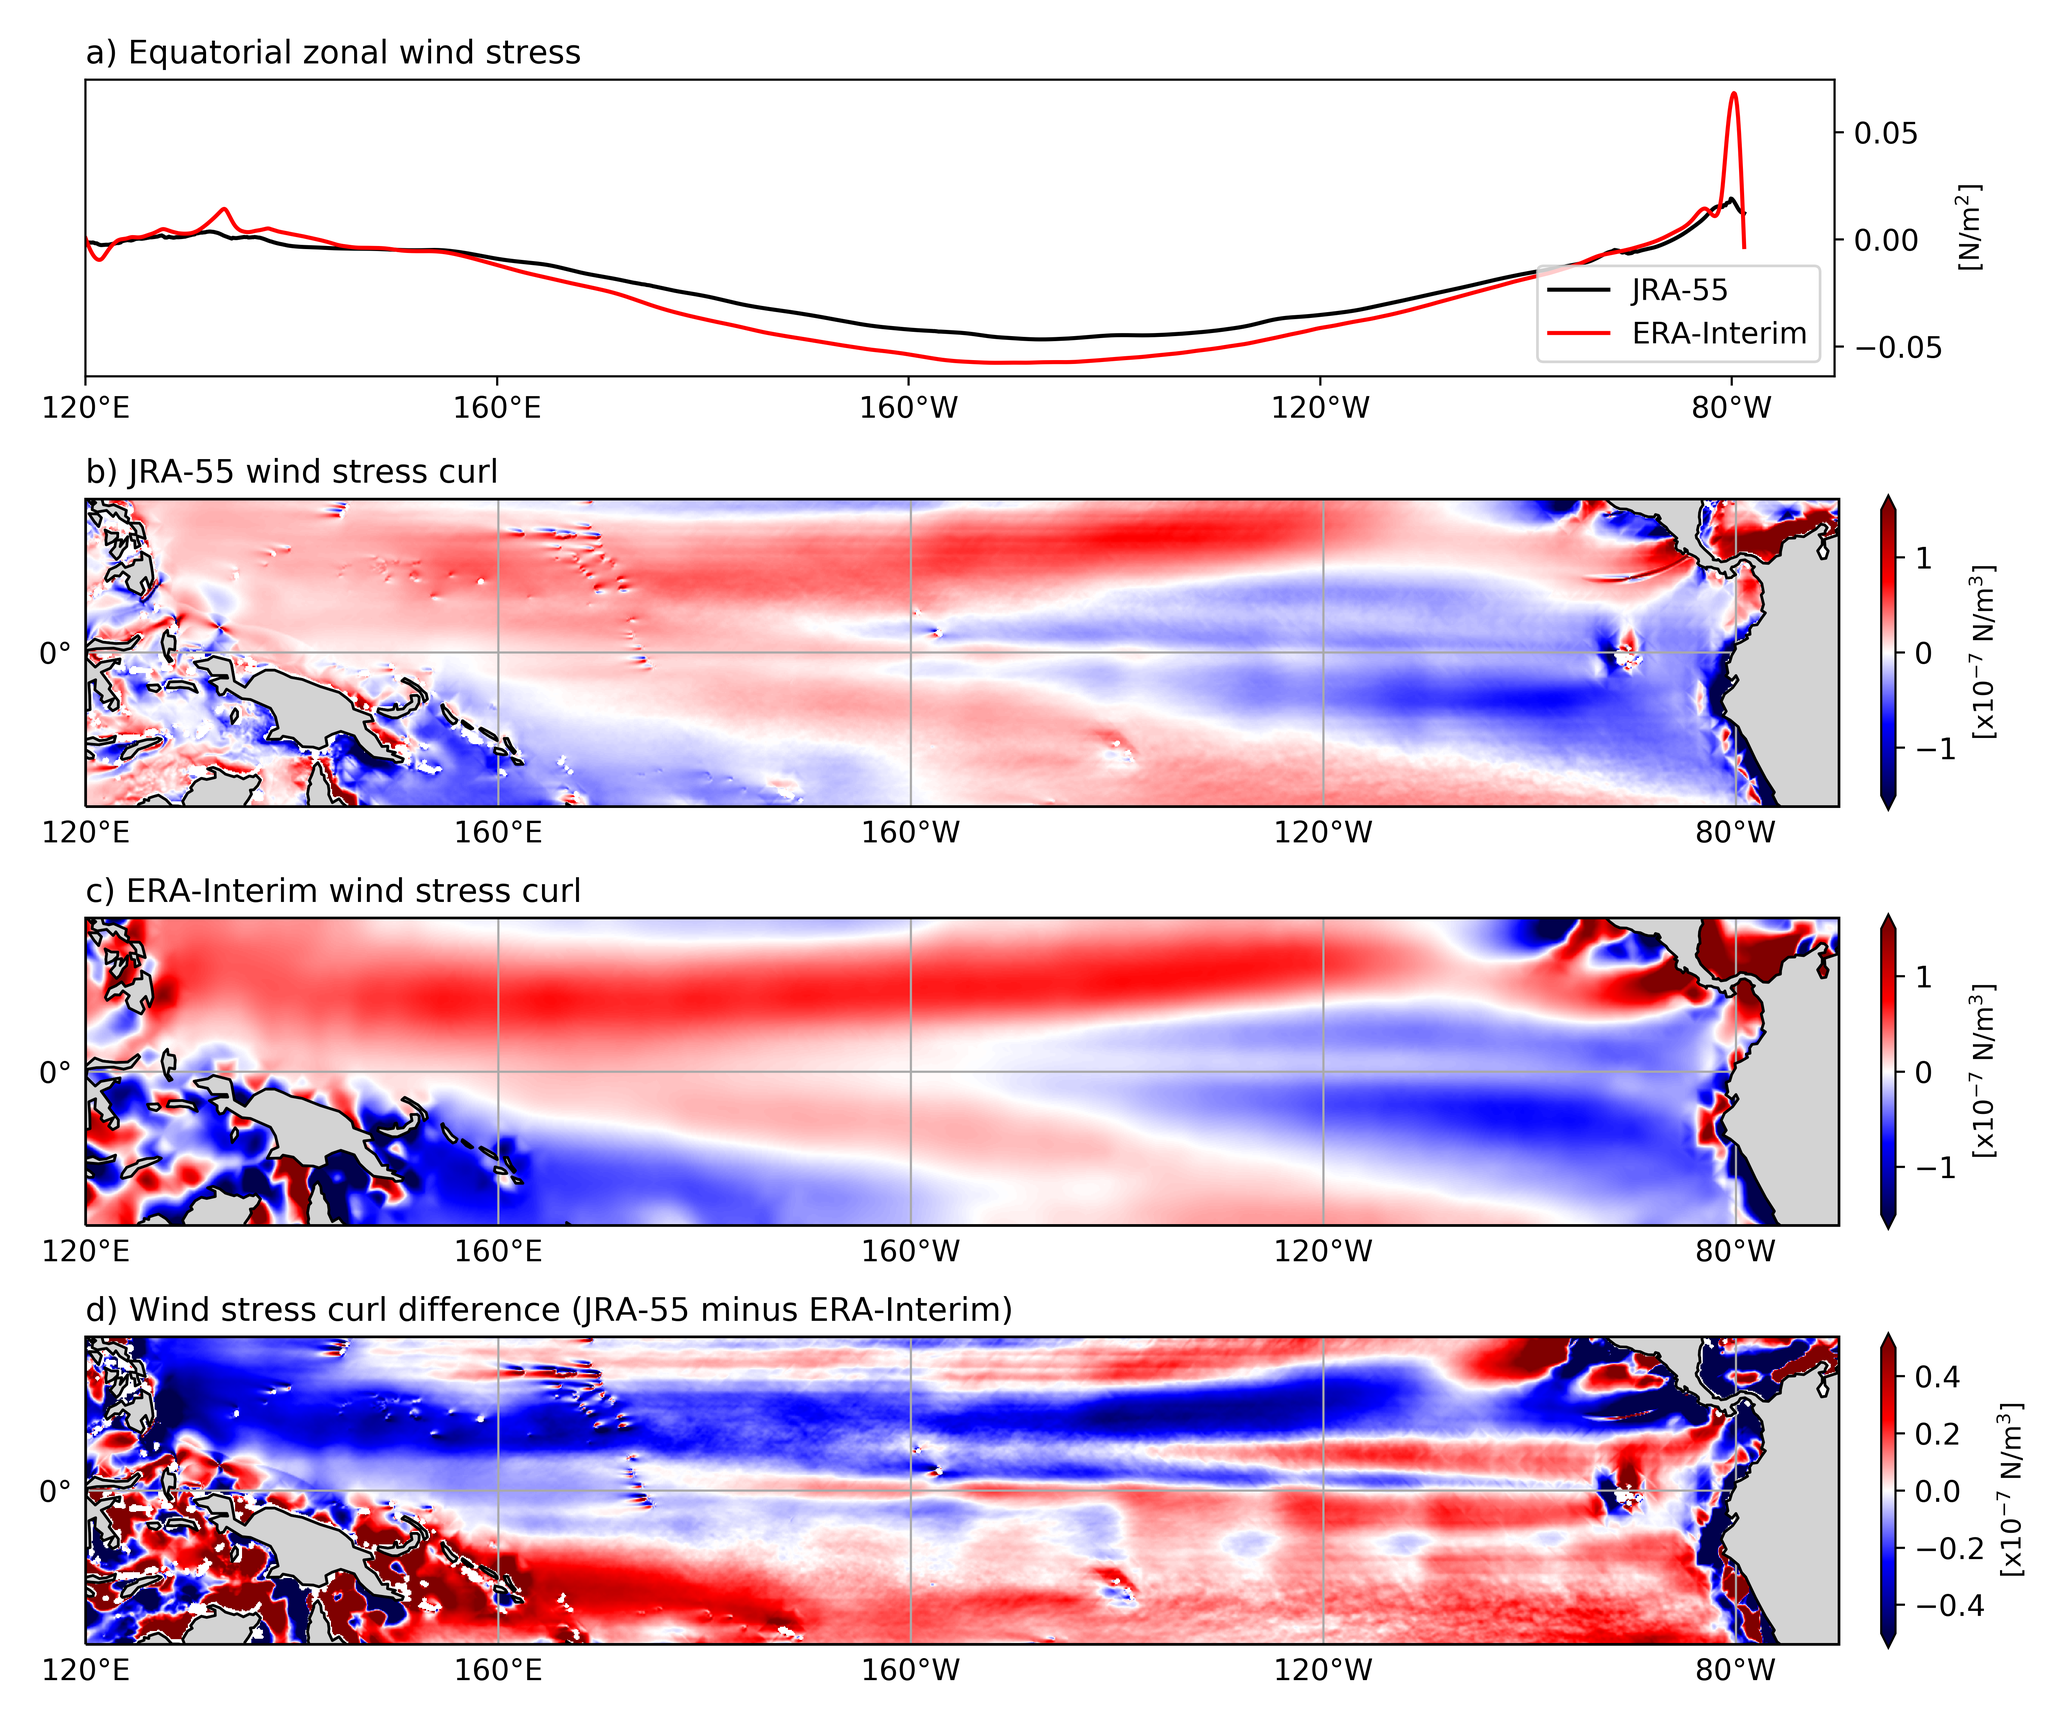
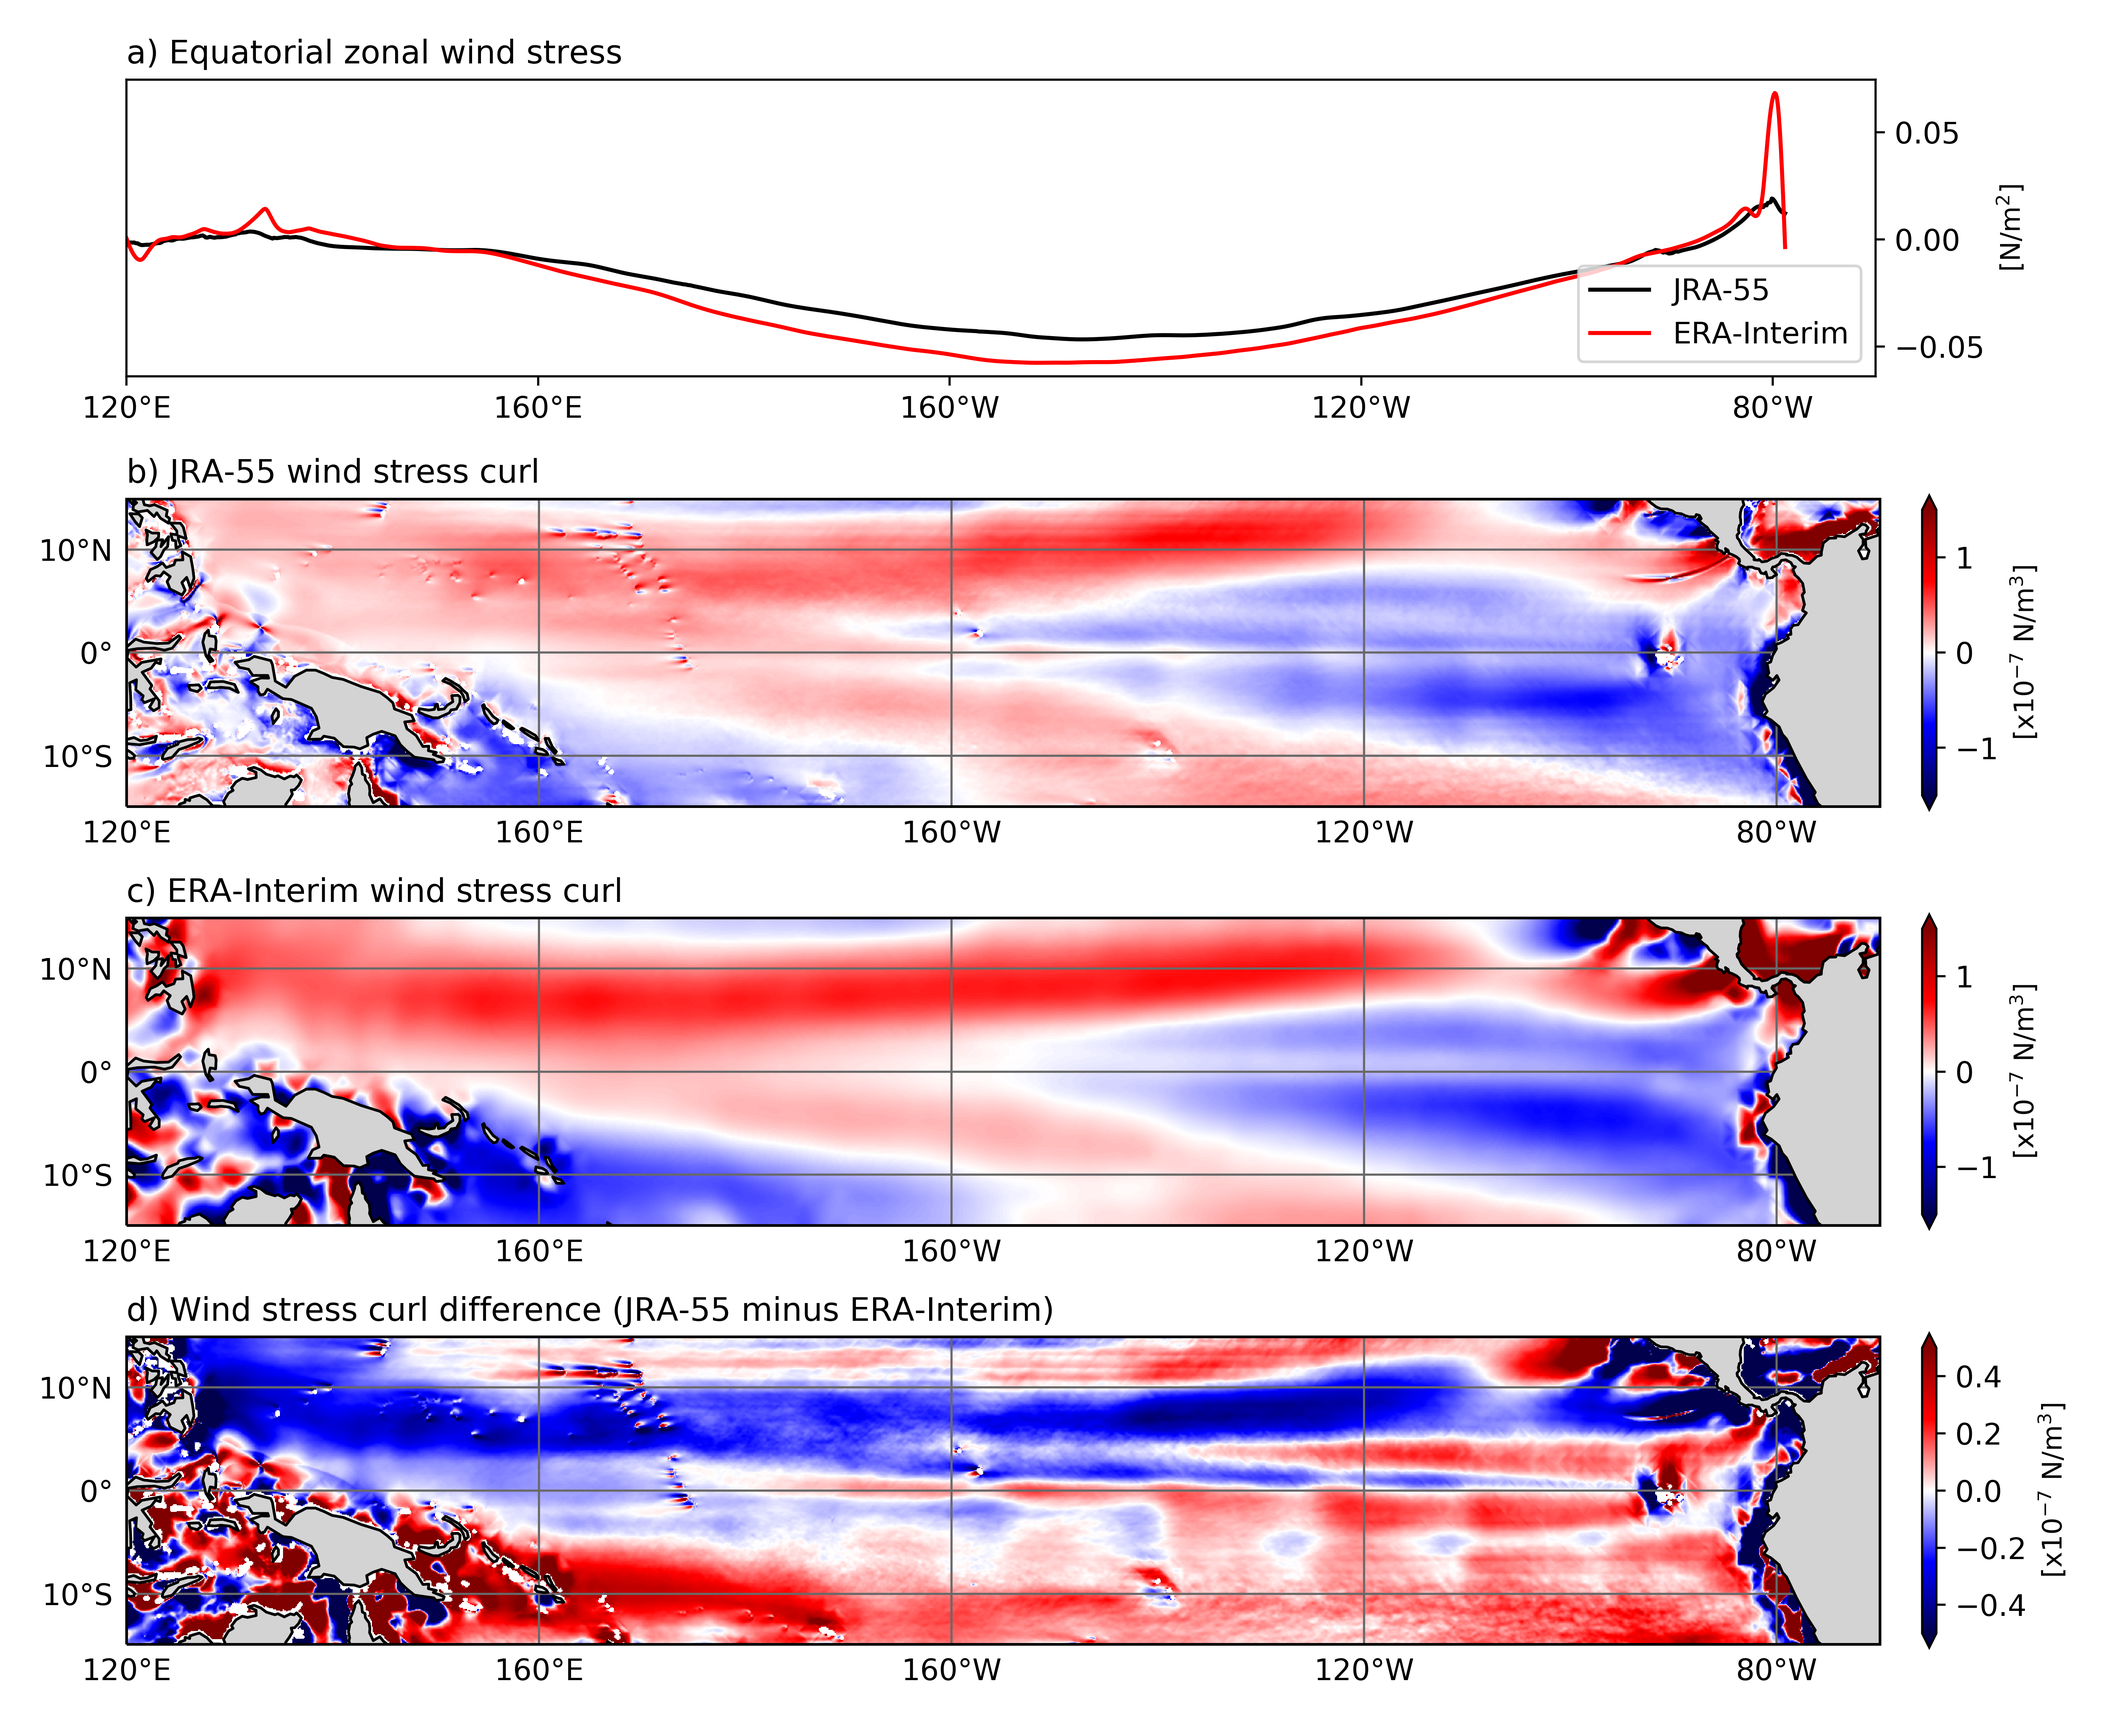
Updated and deleted WSC plots.

diff --git a/scripts/valid_plot_reanalysis_wind.py b/scripts/valid_plot_reanalysis_wind.py
@@ -22,7 +22,6 @@ fpath, dpath, xpath, lpath, tpath = paths()
 
 
 def get_wsc(data='jra55', flux='bulk', res=0.1, mean_t=True, interp=''):
-
     if flux == 'bulk':
         U_O, T_O, q_O, SLP, SST, SSU = flux_data(data, mean_t=mean_t, res=res,
                                                  interp=interp)
@@ -67,8 +66,8 @@ def plot_winds(varz, title, units, vmax, save_name, plot_map):
     proj = ccrs.PlateCarree(central_longitude=180)
     box_proj = ccrs.PlateCarree(central_longitude=0)
     rows = len(varz)
-
-    c = 1.1 if rows == 4 else 0.9
+    lcolor = 'dimgrey'  # Grid line colour.
+    c = 1.1 if rows == 4 else 0.8
     fig = plt.figure(figsize=(14.1, 10*c))
     for i, v in zip(range(rows), varz):
         if plot_map[i]:
@@ -81,10 +80,10 @@ def plot_winds(varz, title, units, vmax, save_name, plot_map):
             ax.add_feature(cartopy.feature.LAND, zorder=2, edgecolor='k',
                            facecolor='lightgrey')
             ax.gridlines(xlocs=[110, 120, 160, 200, 240, 280, 290],
-                         ylocs=[-20, -15, 0, 15, 20], color='darkgrey')
+                         ylocs=[-20, -10, 0, 10, 20], color=lcolor)
             gl = ax.gridlines(draw_labels=True, linewidth=0.001,
                               xlocs=[120, 160, -160, -120, -80],
-                              ylocs=[-15, 0, 15], color='darkgrey')
+                              ylocs=[-10, 0, 10], color=lcolor)
             gl.xlabels_bottom = True
             gl.xlabels_top = False
             gl.ylabels_right = False
@@ -95,10 +94,9 @@ def plot_winds(varz, title, units, vmax, save_name, plot_map):
         else:
             ax = fig.add_subplot(rows, 1, i + 1)
             box = ax.get_position()
-            # [left, bottom, width, height]
+            # [left, bottom, width, height].
             ax.set_position([box.x0, box.y0+0.015, box.width*0.828,
                              box.height*0.85])
-            # ax.set_extent([x0, x1, y0, y1], box_proj)
             ax.plot(v[0].lon, v[0], 'k',  label='JRA-55')
             ax.plot(v[1].lon, v[1].where(~np.isnan(v[0])), 'r',
                     label='ERA-Interim')
@@ -124,34 +122,29 @@ def plot_winds(varz, title, units, vmax, save_name, plot_map):
 
 data = ['jra55', 'erai']
 flux = ['bulk', 'erai', 'static', 'GILL', 'LARGE_approx']
-tx1, ty1, phi1 = get_wsc(data=data[0], flux=flux[0], res=0.1, interp='cubic')
-tx2, ty2, phi2 = get_wsc(data=data[1], flux=flux[1], res=0.1, interp='cubic')
+f1, f2, res = 0, 1, 0.1
+tx1, ty1, phi1 = get_wsc(data=data[0], flux=flux[f1], res=res, interp='cubic')
+tx2, ty2, phi2 = get_wsc(data=data[1], flux=flux[f2], res=res, interp='cubic')
 
 # Wind stress line graph in first subplot and WSC for next three.
 title = ['Equatorial zonal wind stress', 'JRA-55 wind stress curl',
          'ERA-Interim wind stress curl',
          'Wind stress curl difference (JRA-55 minus ERA-Interim)']
-
 units = ['[N/m$^{2}$]', *['[x10$^{-7}$ N/m$^{3}$]' for i in range(3)]]
-
 varz = [[tx1.sel(lat=slice(-2, 2)).mean('lat'),
-        tx2.sel(lat=slice(-2, 2)).mean('lat')],
+         tx2.sel(lat=slice(-2, 2)).mean('lat')],
         phi1*1e7, phi2*1e7, (phi1 - phi2.values)*1e7]
 vmax = [0.07, 1.5, 1.5, 0.5]
-plot_map = [False, True, True, True]
+plot_map = [False, *[True]*3]
 save_name = 'WSC_{}_{}_{:02.0f}'.format(flux[f1], flux[f2], res*10)
-
 plot_winds(varz, title, units, vmax, save_name, plot_map)
-
 
 # Wind stress.
 title = ['JRA-55 wind stress', 'ERA-Interim wind stress',
          'Wind stress difference (JRA-55 minus ERA-Interim)']
 units = ['[N/m$^{2}$]' for i in range(3)]
-
 varz = [tx1, tx2, (tx1 - tx2.values)]
 vmax = [0.08, 0.08, 0.04]
-plot_map = [True, True, True]
+plot_map = [True]*3
 save_name = 'WS_{}_{}_{:02.0f}'.format(flux[f1], flux[f2], res*10)
-
 plot_winds(varz, title, units, vmax, save_name, plot_map)
